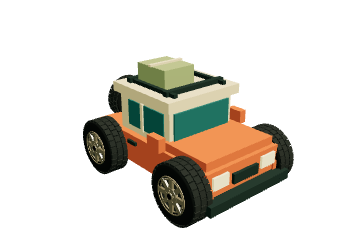
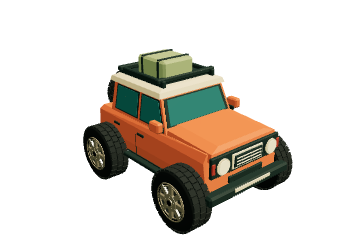
Refine Classic and Modern car bodies

Changed region(s): [[0.2139, 0.2042, 0.825, 0.9917]]

diff --git a/src/game/vehicle.ts b/src/game/vehicle.ts
@@ -5,7 +5,7 @@ import { driveForces, MAX_FORWARD_SPEED, MAX_REVERSE_SPEED, type DriveInput } fr
 import { START } from './terrain';
 import { SURFACES, type Surface, type SurfaceId } from './surfaces';
 import { buildMarsScout } from './mars-scout';
-import { detailedWheel, solidPanel } from './vehicle-geometry';
+import { beveledBox, detailedWheel, solidPanel } from './vehicle-geometry';
 
 const WHEEL_RADIUS = 0.48;
 const REST_LENGTH = 0.38;
@@ -122,7 +122,7 @@ export class Vehicle {
       return;
     }
     const mat = (color: string, roughness = 0.7) => new THREE.MeshStandardMaterial({ color, roughness, flatShading: true });
-    const paint = mat('#6ca06c', 0.62);
+    const paint = mat('#6ca06c', 0.48);
     const darkPaint = mat('#527d58', 0.68);
     const cladding = mat('#263434');
     const trim = mat('#d9d0b5', 0.45);
@@ -149,7 +149,7 @@ export class Vehicle {
       material: THREE.Material,
       rotationX = 0,
     ) => {
-      const mesh = new THREE.Mesh(new THREE.BoxGeometry(w, h, d), material);
+      const mesh = new THREE.Mesh(beveledBox(w, h, d), material);
       mesh.position.set(x, y, z);
       mesh.rotation.x = rotationX;
       mesh.castShadow = true;
@@ -187,6 +187,13 @@ export class Vehicle {
         [side * 0.725, 0.63, front], [side * 0.725, 0.63, rear],
         [side * 0.646, 1.17, topRear], [side * 0.646, 1.17, topFront],
       ];
+      const centerZ = (front + rear + topRear + topFront) / 4;
+      const border = points.map(([x, y, z]) => {
+        const borderY = 0.9 + (y - 0.9) * 1.065;
+        return [x - side * (borderY - y) * (0.079 / 0.54) - side * 0.003,
+          borderY, centerZ + (z - centerZ) * 1.06];
+      });
+      addMesh(solidPanel([...border, ...border.map(([x, y, z]) => [x - side * 0.015, y, z])]), cladding);
       return addMesh(solidPanel([...points, ...points.map(([x, y, z]) => [x - side * 0.012, y, z])]), material);
     };
 
@@ -220,19 +227,26 @@ export class Vehicle {
       sideWindow(side, -0.42, 0.17, -0.15, 0.2, glass);
       sideWindow(side, 0.25, 0.84, 0.23, 0.75, glass);
       box(0.05, 0.07, 0.24, side * 0.825, 0.52, 0.06, cladding);
-      box(0.11, 0.2, 0.28, side * 0.86, 0.69, -0.38, paint);
+      box(0.13, 0.13, 0.23, side * 0.85, 0.69, -0.38, paint);
+      box(0.105, 0.085, 0.018, side * 0.85, 0.69, -0.255, glass);
+      // A quiet door seam and lower crease break up the broad side panel.
+      box(0.008, 0.39, 0.012, side * 0.813, 0.31, 0.21, darkPaint);
+      box(0.01, 0.016, 0.87, side * 0.815, 0.09, 0.21, darkPaint);
 
-      // Door handles, protective side skirts and squared-off wheel-arch caps.
+      // Slim handles and protective side skirts.
       box(0.035, 0.055, 0.22, side * 0.817, 0.47, 0.02, trim);
       box(0.035, 0.055, 0.22, side * 0.817, 0.47, 0.67, trim);
       box(0.12, 0.16, 2.32, side * 0.82, -0.03, 0.04, cladding);
-      box(0.18, 0.16, 0.87, side * 0.81, 0.11, -1.0, cladding);
-      box(0.18, 0.16, 0.87, side * 0.81, 0.11, 1.0, cladding);
 
       // Thin upper lamps and lower fog lamps echo the split-light SUV front.
-      box(0.4, 0.14, 0.055, side * 0.54, 0.47, -1.39, lights);
-      box(0.18, 0.16, 0.06, side * 0.57, 0.15, -1.455, fogLights);
-      box(0.34, 0.18, 0.055, side * 0.53, 0.39, 1.395, taillights);
+      box(0.43, 0.16, 0.055, side * 0.54, 0.465, -1.392, cladding);
+      box(0.37, 0.105, 0.025, side * 0.54, 0.47, -1.425, lights);
+      box(0.34, 0.017, 0.014, side * 0.54, 0.505, -1.445, trim);
+      box(0.27, 0.19, 0.065, side * 0.57, 0.15, -1.435, cladding);
+      box(0.17, 0.10, 0.025, side * 0.57, 0.15, -1.477, fogLights);
+      box(0.37, 0.18, 0.035, side * 0.53, 0.39, 1.393, cladding);
+      box(0.32, 0.13, 0.025, side * 0.53, 0.40, 1.418, taillights);
+      box(0.14, 0.025, 0.012, side * 0.48, 0.365, 1.435, trim);
 
       // Raised roof rails.
       box(0.055, 0.055, 1.0, side * 0.53, 1.34, 0.31, trim);
@@ -241,16 +255,19 @@ export class Vehicle {
     }
 
     // Broad toy grille with simple vertical bars.
-    box(0.76, 0.31, 0.065, 0, 0.28, -1.43, cladding);
+    box(0.79, 0.30, 0.05, 0, 0.28, -1.427, trim);
+    box(0.73, 0.25, 0.035, 0, 0.28, -1.46, cladding);
     box(0.68, 0.04, 0.075, 0, 0.43, -1.467, trim);
     for (const x of [-0.24, -0.12, 0, 0.12, 0.24]) {
-      box(0.032, 0.23, 0.075, x, 0.28, -1.468, trim);
+      box(0.022, 0.21, 0.025, x, 0.28, -1.486, trim);
     }
     box(1.72, 0.16, 0.17, 0, -0.13, -1.43, cladding);
     box(0.72, 0.07, 0.04, 0, -0.08, -1.525, trim);
     box(1.72, 0.17, 0.17, 0, -0.13, 1.42, cladding);
     box(0.76, 0.07, 0.04, 0, -0.08, 1.515, trim);
-    box(0.76, 0.08, 0.05, 0, 0.2, 1.455, cladding);
+    box(0.36, 0.11, 0.02, 0, 0.18, 1.395, cladding);
+    box(0.25, 0.035, 0.024, 0, 0.43, 1.398, trim);
+    box(0.14, 0.045, 0.018, 0, 1.165, 0.842, taillights);
     box(1.2, 0.08, 0.22, 0, 1.24, 0.85, cladding);
 
     for (const connection of CONNECTIONS) {
@@ -292,7 +309,7 @@ export class Vehicle {
 
   private createClassicModel() {
     const mat = (color: string, roughness = 0.7) => new THREE.MeshStandardMaterial({ color, roughness, flatShading: true });
-    const paint = mat('#ed754b');
+    const paint = mat('#ed754b', 0.56);
     const dark = mat('#293e3d');
     const roof = mat('#ffebc4');
     const glass = mat('#397b7d', 0.25);
@@ -305,7 +322,7 @@ export class Vehicle {
       x: number, y: number, z: number,
       material: THREE.Material,
     ) => {
-      const mesh = new THREE.Mesh(new THREE.BoxGeometry(w, h, d), material);
+      const mesh = new THREE.Mesh(beveledBox(w, h, d), material);
       mesh.position.set(x, y, z);
       mesh.castShadow = true;
       mesh.receiveShadow = true;
@@ -313,31 +330,96 @@ export class Vehicle {
       return mesh;
     };
 
-    // The original Little Roamer: a bright expedition wagon with a loaded roof and rear spare.
-    box(1.53, 0.49, 2.78, 0, 0.11, 0, paint);
-    box(1.42, 0.14, 0.93, 0, 0.42, -0.85, paint);
-    box(1.3, 0.7, 1.27, 0, 0.67, 0.18, roof);
-    box(1.15, 0.46, 0.035, 0, 0.69, -0.471, glass);
-    box(1.15, 0.42, 0.035, 0, 0.69, 0.826, glass);
+    const panel = (points: number[][], material: THREE.Material) => {
+      const mesh = new THREE.Mesh(solidPanel(points), material);
+      mesh.castShadow = mesh.receiveShadow = true;
+      this.bodyVisual.add(mesh);
+      return mesh;
+    };
+    // Framed panes follow the actual cabin planes, including the windscreen rake.
+    const window = (points: number[][], outward: number[]) => {
+      const skin = (face: number[][], material: THREE.Material) => panel([
+        ...face, ...face.map(point => point.map((value, axis) => value - outward[axis] * 0.012)),
+      ], material);
+      skin(points, dark);
+      const center = [0, 1, 2].map(axis => points.reduce((sum, point) => sum + point[axis], 0) / points.length);
+      skin(points.map(point => point.map((value, axis) => center[axis] + (value - center[axis]) * 0.91
+        + outward[axis] * 0.006)), glass);
+    };
+
+    // Land Cruiser-inspired shoulders and a shallow crowned bonnet retain the short toy proportions.
+    panel([
+      [-0.72, -0.135, -1.39], [0.72, -0.135, -1.39], [-0.72, -0.135, 1.39], [0.72, -0.135, 1.39],
+      [-0.765, 0.08, -1.36], [0.765, 0.08, -1.36], [-0.765, 0.08, 1.35], [0.765, 0.08, 1.35],
+      [-0.765, 0.37, -1.32], [0.765, 0.37, -1.32], [-0.765, 0.42, 1.32], [0.765, 0.42, 1.32],
+      [-0.70, 0.49, -1.32], [0.70, 0.49, -1.32], [-0.70, 0.49, 1.29], [0.70, 0.49, 1.29],
+    ], paint);
+    panel([
+      [-0.70, 0.38, -1.40], [0.70, 0.38, -1.40], [-0.71, 0.43, -0.46], [0.71, 0.43, -0.46],
+      [-0.67, 0.50, -1.38], [0.67, 0.50, -1.38], [-0.68, 0.56, -0.46], [0.68, 0.56, -0.46],
+      [-0.49, 0.555, -1.32], [0.49, 0.555, -1.32], [-0.49, 0.61, -0.47], [0.49, 0.61, -0.47],
+    ], paint);
+    panel([
+      [-0.72, 0.38, -0.49], [0.72, 0.38, -0.49], [-0.72, 0.38, 1.04], [0.72, 0.38, 1.04],
+      [-0.63, 1.02, -0.24], [0.63, 1.02, -0.24], [-0.63, 1.02, 0.98], [0.63, 1.02, 0.98],
+    ], paint);
+    window([[-0.65, 0.57, -0.424], [0.65, 0.57, -0.424],
+      [0.595, 0.97, -0.268], [-0.595, 0.97, -0.268]], [0, 0, -1]);
+    window([[-0.65, 0.54, 1.031], [0.65, 0.54, 1.031],
+      [0.59, 0.96, 0.992], [-0.59, 0.96, 0.992]], [0, 0, 1]);
     for (const side of [-1, 1]) {
-      box(0.027, 0.43, 0.91, side * 0.66, 0.69, 0.12, glass);
-      box(0.04, 0.47, 0.06, side * 0.68, 0.69, 0.19, roof);
-      box(0.045, 0.06, 0.22, side * 0.783, 0.24, 0.35, dark);
-      box(0.13, 0.22, 0.28, side * 0.87, 0.53, -0.41, paint);
-      box(0.31, 0.2, 0.05, side * 0.51, 0.18, -1.405, lights);
-      box(0.21, 0.17, 0.05, side * 0.52, 0.18, 1.405, taillights);
-      box(0.26, 0.17, 0.84, side * 0.78, 0.02, -1, paint);
-      box(0.26, 0.17, 0.84, side * 0.78, 0.02, 1, paint);
-      box(0.07, 0.12, 1.18, side * 0.51, 1.15, 0.15, dark);
+      const sideWindow = (front: number, rear: number, topFront: number, topRear: number) => window([
+        [side * 0.706, 0.53, front], [side * 0.706, 0.53, rear],
+        [side * 0.645, 0.96, topRear], [side * 0.645, 0.96, topFront],
+      ], [side, 0, 0]);
+      sideWindow(-0.397, 0.22, -0.22, 0.22);
+      sideWindow(0.275, 0.92, 0.275, 0.895);
+      box(0.035, 0.045, 0.17, side * 0.767, 0.31, 0.12, dark);
+      box(0.045, 0.065, 0.14, side * 0.755, 0.56, -0.38, dark);
+      box(0.12, 0.16, 0.22, side * 0.83, 0.63, -0.37, paint);
+      box(0.08, 0.11, 0.015, side * 0.83, 0.63, -0.254, glass);
+      box(0.009, 0.37, 0.013, side * 0.768, 0.10, 0.25, dark);
+      box(0.014, 0.022, 0.88, side * 0.77, -0.075, 0.07, dark);
+      box(0.035, 0.045, 0.17, side * 0.762, 0.31, 0.79, dark);
+      box(0.14, 0.065, 0.9, side * 0.80, -0.12, 0.04, dark);
+      // Round lamps sit inside simple cream bezels, with small corner indicators.
+      for (const [radius, depth, z, material] of [
+        [0.143, 0.035, -1.431, dark], [0.124, 0.025, -1.458, roof], [0.102, 0.018, -1.477, lights],
+      ] as const) {
+        const lamp = new THREE.Mesh(new THREE.CylinderGeometry(radius, radius, depth, 20).rotateX(Math.PI / 2), material);
+        lamp.position.set(side * 0.51, 0.30, z);
+        lamp.castShadow = true;
+        this.bodyVisual.add(lamp);
+      }
+      box(0.065, 0.16, 0.025, side * 0.681, 0.30, -1.437, taillights);
+      box(0.24, 0.20, 0.035, side * 0.52, 0.18, 1.397, dark);
+      box(0.18, 0.135, 0.025, side * 0.52, 0.20, 1.423, taillights);
+      box(0.18, 0.028, 0.025, side * 0.52, 0.125, 1.423, roof);
+      box(0.07, 0.12, 1.18, side * 0.51, 1.16, 0.40, dark);
     }
-    box(1.48, 0.16, 1.44, 0, 1.07, 0.17, roof);
+    // A gently crowned cream roof follows the raked cabin instead of overhanging a cube.
+    panel([
+      [-0.685, 0.995, -0.28], [0.685, 0.995, -0.28], [-0.685, 0.995, 1.06], [0.685, 0.995, 1.06],
+      [-0.66, 1.075, -0.25], [0.66, 1.075, -0.25], [-0.66, 1.075, 1.03], [0.66, 1.075, 1.03],
+      [-0.55, 1.12, -0.18], [0.55, 1.12, -0.18], [-0.55, 1.12, 0.96], [0.55, 1.12, 0.96],
+    ], roof);
     box(1.7, 0.16, 0.18, 0, -0.12, -1.48, dark);
     box(1.7, 0.16, 0.18, 0, -0.12, 1.48, dark);
-    box(0.53, 0.16, 0.06, 0, 0.13, -1.413, dark);
+    box(1.43, 0.32, 0.055, 0, 0.30, -1.404, dark);
+    box(0.64, 0.235, 0.025, 0, 0.30, -1.442, roof);
+    box(0.58, 0.18, 0.025, 0, 0.30, -1.461, dark);
+    for (const y of [0.25, 0.30, 0.35]) box(0.52, 0.018, 0.018, 0, y, -1.48, roof);
+    box(0.72, 0.10, 0.035, 0, 0.02, -1.425, dark);
+    box(0.76, 0.055, 0.025, 0, -0.08, -1.577, roof);
+    box(1.05, 0.04, 0.98, 0, 1.14, 0.40, dark);
     box(0.6, 0.32, 0.69, 0.15, 1.32, 0.24, mat('#a7b886'));
-    box(0.65, 0.035, 0.065, 0.15, 1.495, 0.24, roof);
-    box(1.19, 0.08, 0.09, 0, 1.19, -0.28, dark);
-    box(1.19, 0.08, 0.09, 0, 1.19, 0.65, dark);
+    for (const z of [0.04, 0.44]) {
+      box(0.61, 0.022, 0.045, 0.15, 1.484, z, dark);
+      box(0.022, 0.29, 0.045, -0.155, 1.32, z, dark);
+      box(0.022, 0.29, 0.045, 0.455, 1.32, z, dark);
+    }
+    box(1.19, 0.08, 0.09, 0, 1.20, -0.09, dark);
+    box(1.19, 0.08, 0.09, 0, 1.20, 0.91, dark);
 
     for (const connection of CONNECTIONS) {
       const wheel = new THREE.Group();

diff --git a/src/game/vehicle-geometry.ts b/src/game/vehicle-geometry.ts
@@ -8,6 +8,19 @@ export function solidPanel(points: number[][]) {
   return geometry;
 }
 
+/** A single small bevel catches the light without rounding away the toy silhouette. */
+export function beveledBox(width: number, height: number, depth: number, bevel = 0.035) {
+  const half = [width / 2, height / 2, depth / 2];
+  const cut = Math.min(bevel, ...half.map(value => value * 0.4));
+  const points: number[][] = [];
+  for (const x of [-1, 1]) for (const y of [-1, 1]) for (const z of [-1, 1]) {
+    for (let axis = 0; axis < 3; axis++) {
+      points.push([x, y, z].map((sign, i) => sign * (half[i] - (i === axis ? 0 : cut))));
+    }
+  }
+  return solidPanel(points);
+}
+
 /** Wheel axis is X; both faces are finished, including the rear-mounted spare. */
 export function detailedWheel(style: 'classic' | 'modern', radius: number) {
   const group = new THREE.Group();

diff --git a/scripts/render-car-thumbnails.ts b/scripts/render-car-thumbnails.ts
@@ -38,6 +38,8 @@ try {
       const world = new RAPIER.World({ x: 0, y: -18, z: 0 });
       try {
         const vehicle = new Vehicle(scene, world, { x: 0, y: 0, z: 0 }, 1, undefined, undefined, undefined, model);
+        // Rapier has not stepped here; show the Earth cars at their parked ride height.
+        if (model !== 'mars-scout') for (const wheel of vehicle.wheels) wheel.position.y = -0.24;
         scene.add(new THREE.HemisphereLight('#fef3d6', '#7f9f87', 1.9));
         const sun = new THREE.DirectionalLight('#fff0d1', 2.6);
         sun.position.set(-3, 7, -5);
